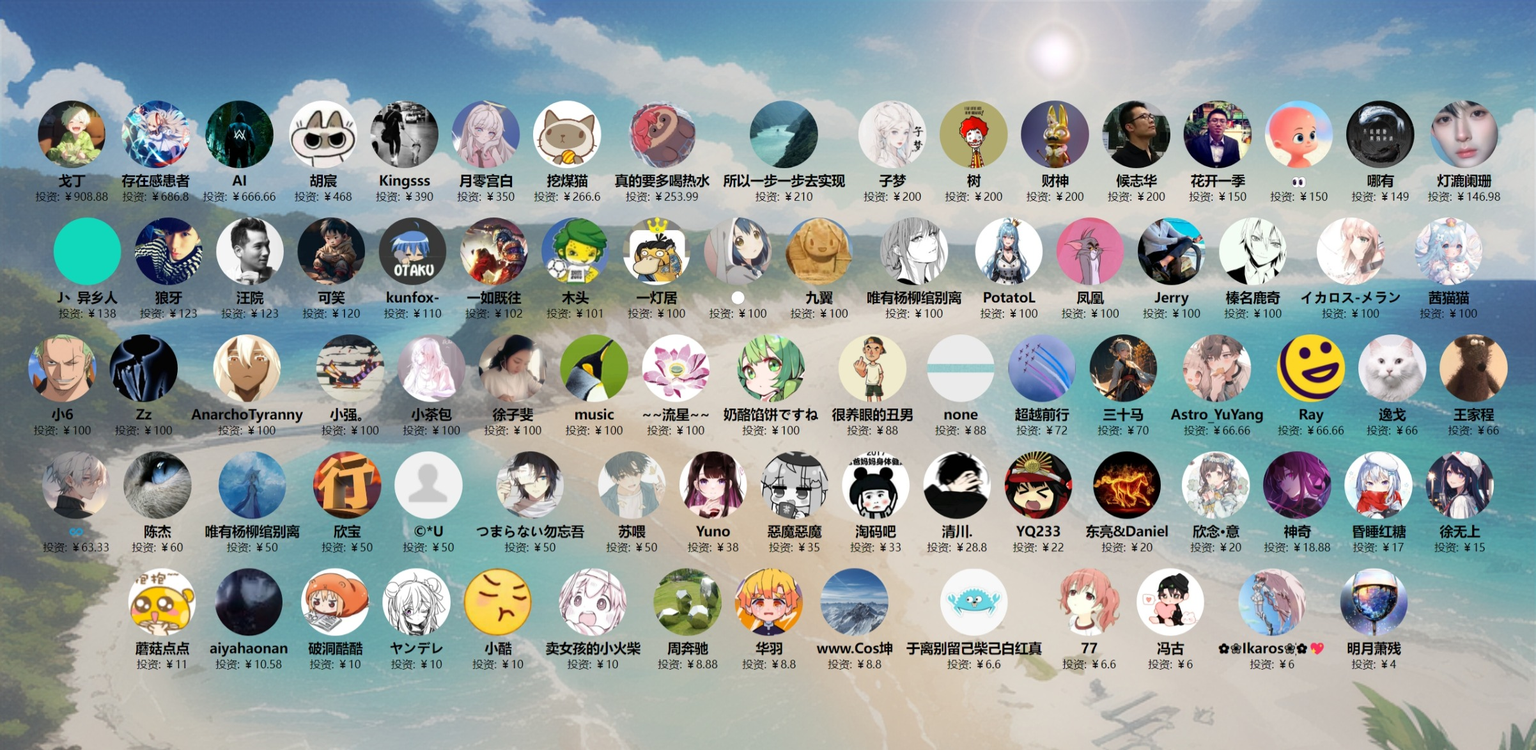
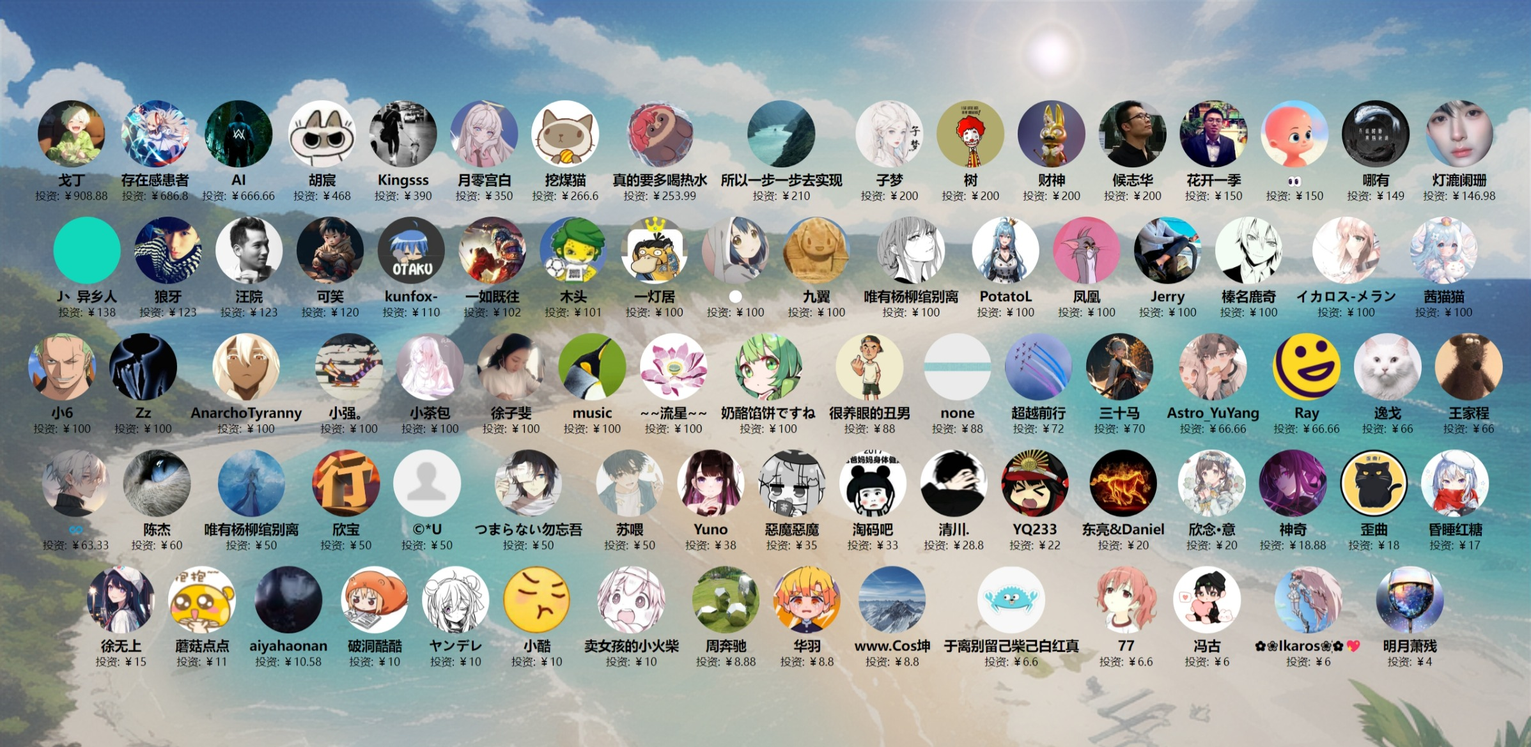
更新投资人

Changed region(s): [[0.0309, 0.5851, 0.9887, 0.8931]]

diff --git a/docs/投资人/index.html b/docs/投资人/index.html
@@ -382,6 +382,11 @@
             amount: "￥18.88"
         },
         {
+            name: "歪曲",
+            avatar: "https://images.cnblogs.com/cnblogs_com/ikaros-521/2328032/o_240220161822_QQ%E5%9B%BE%E7%89%8720240221001656.jpg",
+            amount: "￥18"
+        },
+        {
             name: "昏睡红糖",
             avatar: "https://images.cnblogs.com/cnblogs_com/ikaros-521/2328032/o_230719074436_%E6%98%8F%E7%9D%A1%E7%BA%A2%E7%B3%96.jpg",
             amount: "￥17"
